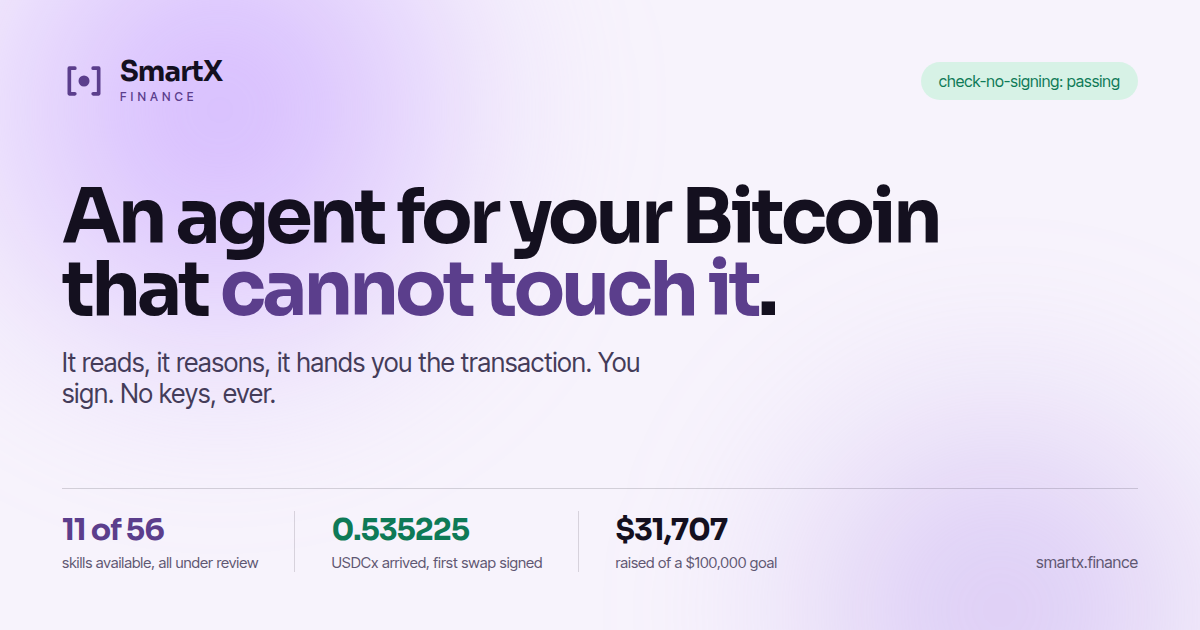
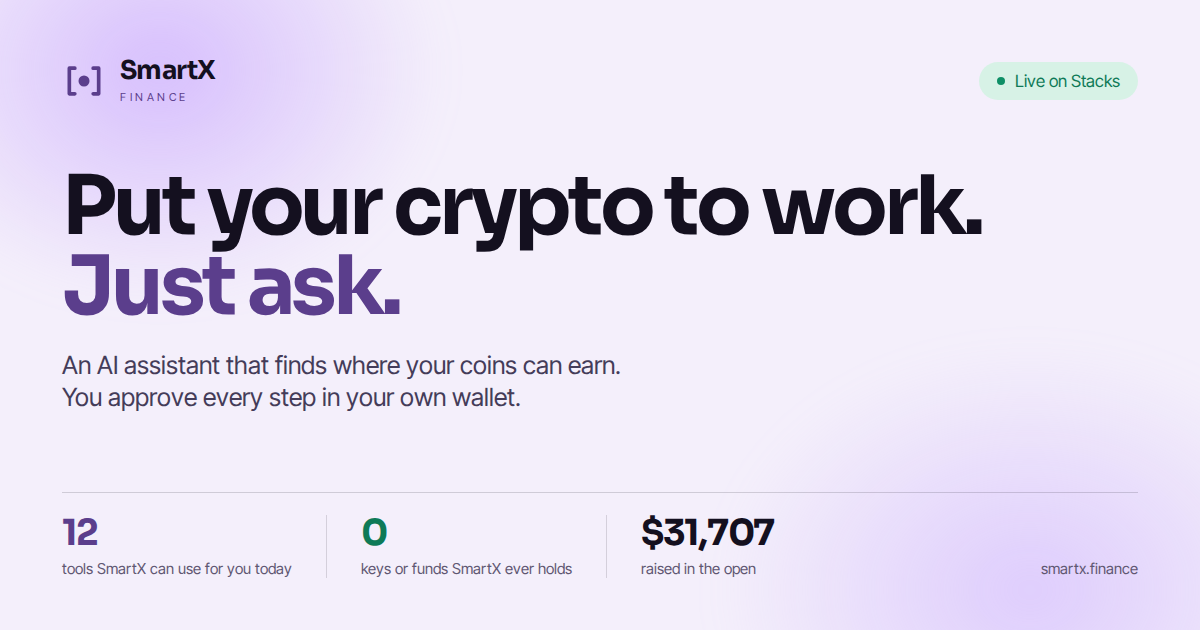
feat(site): a new link preview card in the new words, and 12 of 57 skills with 15 built

diff --git a/index.html b/index.html
@@ -12,7 +12,7 @@
 <meta property="og:site_name" content="SmartX Finance">
 <meta property="og:title" content="SmartX Finance: an AI assistant for your crypto wallet that never holds your keys">
 <meta property="og:description" content="Ask in plain words where your crypto can earn. SmartX finds the options, explains them, and prepares the transaction. You approve it in your own wallet. Live on Stacks.">
-<meta property="og:image" content="https://smartx.finance/assets/og-card.png">
+<meta property="og:image" content="https://smartx.finance/assets/og-card.png?v=2">
 <meta property="og:image:width" content="1200">
 <meta property="og:image:height" content="630">
 <meta property="og:image:alt" content="SmartX Finance: an AI assistant for your crypto wallet that never holds your keys">
@@ -20,7 +20,7 @@
 <meta name="twitter:site" content="@SmartXFinance">
 <meta name="twitter:title" content="SmartX Finance: an AI assistant for your crypto wallet that never holds your keys">
 <meta name="twitter:description" content="Ask in plain words where your crypto can earn. SmartX prepares the transaction; you approve it in your own wallet. Live on Stacks.">
-<meta name="twitter:image" content="https://smartx.finance/assets/og-card.png">
+<meta name="twitter:image" content="https://smartx.finance/assets/og-card.png?v=2">
 <link rel="icon" href="/favicon.ico" sizes="any">
 <link rel="icon" type="image/png" sizes="32x32" href="/assets/favicon-32.png">
 <link rel="icon" type="image/png" sizes="16x16" href="/assets/favicon-16.png">
@@ -483,7 +483,7 @@
       <p class="hero-note">The demo needs no wallet and no password. The app itself is password protected for now.</p>
     </div>
     <dl class="og-stats">
-      <div><dt style="color:#5B3E8C;">11</dt><dd>tools SmartX can use for you today</dd></div>
+      <div><dt style="color:#5B3E8C;">12</dt><dd>tools SmartX can use for you today</dd></div>
       <div><dt style="color:#0E7A57;">0</dt><dd>keys or funds SmartX ever holds</dd></div>
       <div><dt>$31,707</dt><dd>raised in the open, of a $100,000 goal</dd></div>
     </dl>
@@ -545,8 +545,8 @@
 
   <div class="marq-band">
     <div class="marq">
-      <span>first swap signed on mainnet, 12 September 2026</span><span>0.535225 USDCx arrived, above the promised minimum</span><span>first two coin pool deposit, 13 September 2026</span><span>SmartX never holds your keys</span><span>live on Stacks, more chains next</span><span>every transaction signed in your own wallet</span><span>14 skills built, 5 merged upstream</span><span>$31,707 raised of $100,000</span>
-      <span aria-hidden="true">first swap signed on mainnet, 12 September 2026</span><span aria-hidden="true">0.535225 USDCx arrived, above the promised minimum</span><span aria-hidden="true">first two coin pool deposit, 13 September 2026</span><span aria-hidden="true">SmartX never holds your keys</span><span aria-hidden="true">live on Stacks, more chains next</span><span aria-hidden="true">every transaction signed in your own wallet</span><span aria-hidden="true">14 skills built, 5 merged upstream</span><span aria-hidden="true">$31,707 raised of $100,000</span>
+      <span>first swap signed on mainnet, 12 September 2026</span><span>0.535225 USDCx arrived, above the promised minimum</span><span>first two coin pool deposit, 13 September 2026</span><span>SmartX never holds your keys</span><span>live on Stacks, more chains next</span><span>every transaction signed in your own wallet</span><span>15 skills built, 5 merged upstream</span><span>$31,707 raised of $100,000</span>
+      <span aria-hidden="true">first swap signed on mainnet, 12 September 2026</span><span aria-hidden="true">0.535225 USDCx arrived, above the promised minimum</span><span aria-hidden="true">first two coin pool deposit, 13 September 2026</span><span aria-hidden="true">SmartX never holds your keys</span><span aria-hidden="true">live on Stacks, more chains next</span><span aria-hidden="true">every transaction signed in your own wallet</span><span aria-hidden="true">15 skills built, 5 merged upstream</span><span aria-hidden="true">$31,707 raised of $100,000</span>
     </div>
   </div>
 </section>
@@ -598,7 +598,7 @@
     <div>
       <span class="label">What you can do today</span>
       <h2 class="h2s" style="max-width:16ch;">Eight things you can ask for today.</h2>
-      <p class="intro">Ask in plain words and SmartX picks the right tool from the 11 it can use today. Everything runs on Stacks mainnet with real money.</p>
+      <p class="intro">Ask in plain words and SmartX picks the right tool from the 12 it can use today. Everything runs on Stacks mainnet with real money.</p>
     </div>
     <ul class="rows">
       <li class="row"><span class="row-k">See it all</span><span class="row-t">Everything you hold across Zest, Hermetica, Granite and Bitflow, in one place</span><span class="row-tag">working</span></li>
@@ -650,7 +650,7 @@
         <span class="label">One thumb</span>
         <h2 class="h2" style="max-width:16ch;">The whole console, in your hand.</h2>
         <div class="facts">
-          <div class="fact"><b>11</b><span>tools available to you today, of 56 in the library</span></div>
+          <div class="fact"><b>12</b><span>tools available to you today, of 57 in the library</span></div>
           <div class="fact"><b>9</b><span>stages your money moves through, so you never pick a tool</span></div>
           <div class="fact"><b>0</b><span>keys held, on any screen, on any device</span></div>
         </div>
@@ -790,7 +790,7 @@
             <ul class="stage-items">
               <li>The app at app.smartx.finance, where SmartX's assistant picks the right tool for you</li>
               <li>First swap signed 12 September 2026, first two coin deposit 13 September</li>
-              <li>Live on Stacks: 11 of 56 tools available to you, each still being checked</li>
+              <li>Live on Stacks: 12 of 57 tools available to you, each still being checked</li>
               <li>Funded through the LAB Open Source Builders Fund</li>
             </ul>
           </div>
@@ -866,7 +866,7 @@
         <div class="money-row" data-i="2" style="--c:#14101F;"><i style="background:#14101F;" aria-hidden="true"></i><span>in sales of its artifact</span><b>$4,570</b></div>
       </div>
       <div class="open-facts">
-        <div><b>14</b><span>skills built by SmartX</span></div>
+        <div><b>15</b><span>skills built by SmartX</span></div>
         <div><b>5</b><span>merged upstream</span></div>
         <div><b>MIT</b><span>licensed, public</span></div>
       </div>
@@ -968,7 +968,7 @@
     { src: "screens/map.webp", alt: "The map with its routes drawn from your tokens to the places they could go", cap: "The console. Your tokens on the left, where they could go on the right." },
     { src: "screens/home.webp", alt: "The SmartX home screen, before a wallet is connected", cap: "The home screen, before any wallet is connected." },
     { src: "screens/refusal.webp", alt: "The refusal card, offering five skills to ask instead", cap: "A refusal is an answer. Same slot, same size, with what to ask instead." },
-    { src: "screens/library.webp", alt: "The skills library grouped by the stage capital moves through", cap: "11 of 56 skills, grouped by the stage your capital moves through." },
+    { src: "screens/library.webp", alt: "The skills library grouped by the stage capital moves through", cap: "The skills library, grouped by the stage your money moves through." },
     { src: "screens/wallet.webp", alt: "The wallet screen listing holdings read from the chain", cap: "Your wallet, read straight from the chain. No prices, so no totals." },
     { src: "screens/profile.webp", alt: "The profile screen showing custody and session facts", cap: "Custody in plain words: SmartX builds, your wallet signs." }
   ];
